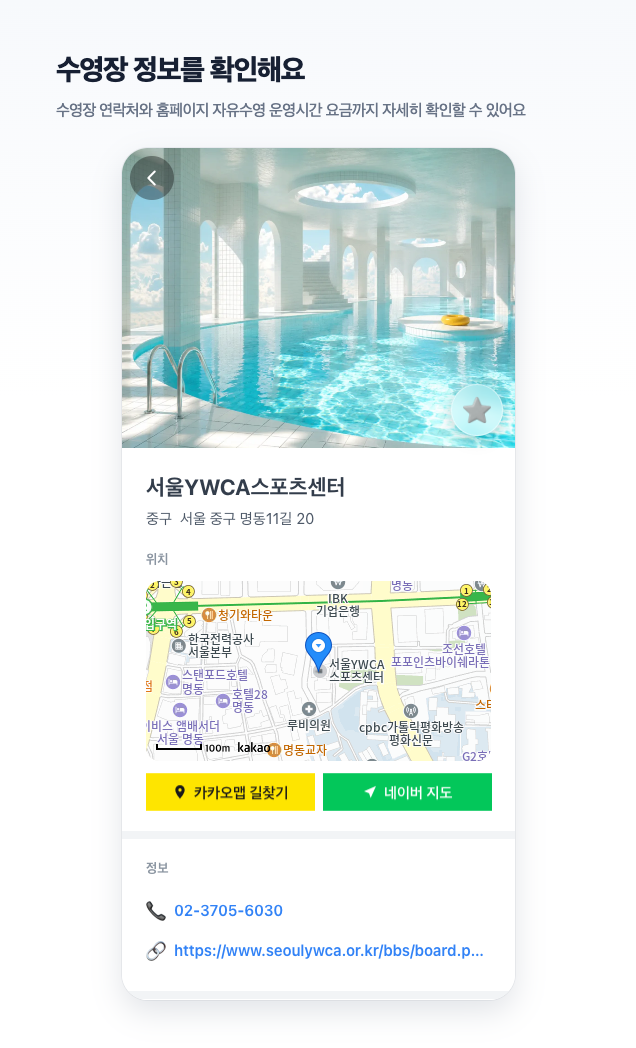
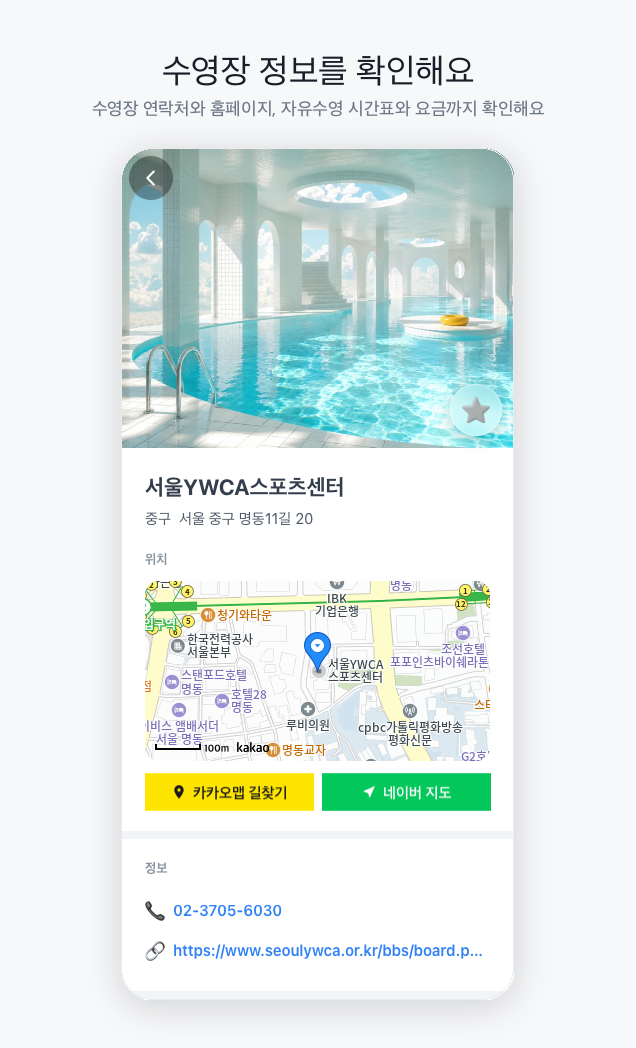
docs: refresh README and preview cards with clean TDS styling

diff --git a/vite.config.ts b/vite.config.ts
@@ -29,5 +29,6 @@ export default defineConfig({
     environment: "jsdom",
     setupFiles: "./src/test/setup.ts",
     clearMocks: true,
+    include: ["src/**/*.{test,spec}.{ts,tsx}"],
   },
 });

diff --git a/README.md b/README.md
@@ -2,7 +2,7 @@
 
 # 🏊 오늘 자유수영 (Openswim)
 
-**오늘 자유수영이 가능한 공공 수영장을 한눈에** — 오늘 어디서 수영할지 지역과 내 위치를 바탕으로 찾는 [AppsInToss](https://apps-in-toss.toss.im/) 미니앱
+**오늘 자유수영이 가능한 공공 수영장을 한눈에** — 지역과 내 위치를 바탕으로 오늘 갈 수 있는 수영장을 찾는 [AppsInToss](https://apps-in-toss.toss.im/) 미니앱
 
 </div>
 
@@ -14,23 +14,22 @@
   <img src="docs/preview/detail.png" width="30%" alt="상세" />
 </p>
 
-> 위 이미지는 브랜드 미리보기예요. 실제 스크린샷을 `docs/preview/{home,nearby,detail}.png` 로 교체하면 자동으로 반영됩니다.
-
 ## 주요 기능
 
-- 📍 **지역·내 위치 기반 검색** — 구 단위 지역 검색(엔터 시 지역 우선 매칭), 위치 권한이 있으면 가까운 순, 없으면 금천구 기본 정렬
-- 🗓 **오늘/토/일 · 공휴일 운영 판별** — 요일별 자유수영 시간표 + 공휴일 처리(운영 / 휴무 / 정보 없음)
-- 🗺 **지도** — 카카오맵에 전체 수영장 마커, 검색하면 해당 지역으로 이동, 카카오맵·네이버 길찾기
-- ⭐ **즐겨찾기**, 상세 실제 요금표 등
+- 📍 **지역·내 위치 기반 탐색** — 구 단위 지역 검색 및 거리순 정렬 (위치 권한 미허용 시 기본 지역 정렬)
+- 🗓 **오늘 / 주말 · 공휴일 운영 판별** — 요일별 자유수영 시간표와 공휴일 테이블(`public.holidays`) 실시간 연동 (운영 / 휴무 / 정보 없음)
+- 🚫 **이용 대상 제한 안내** — 여성 전용, 특정 연령 제한 등 헛걸음 방지를 위한 상세 제한 배지(`access_label`, `access_note`) 표시
+- 🗺 **지도 및 길찾기** — 카카오맵 지도 뷰, 수영장 위치 마커 표시 및 카카오맵·네이버 지도 길찾기 연동
+- ⭐ **즐겨찾기 및 장비 추천** — 자주 가는 수영장 북마크, 추천 수영 장비 목록 제공
 
-## 기술 스택 (현재)
+## 기술 스택
 
-| 구분 | 사용 |
+| 구분 | 스택 |
 |------|------|
-| 프론트 | React 18 · TypeScript · Vite |
-| 플랫폼 | AppsInToss `@apps-in-toss/web-framework` 3.x (AIT) · TDS `@toss/tds-mobile` |
-| 데이터 | Neon Postgres + Neon Data API/Auth(REST, 익명 토큰) 단일 원본. 폴백 없음 |
-| 지도 | Kakao Maps JS SDK |
+| **Frontend** | React 18 · TypeScript · Vite · Vitest |
+| **Platform** | AppsInToss `@apps-in-toss/web-framework` 3.x (AIT) · TDS `@toss/tds-mobile` |
+| **Database** | Neon Postgres + Neon Data API / Auth (REST, 익명 토큰) 단일 원본 |
+| **Maps** | Kakao Maps JS SDK |
 
 ## 시작하기
 
@@ -38,80 +37,82 @@
 # 1) 의존성 설치
 pnpm install
 
-# 2) 환경 변수 — .env 생성 (.env.example 참고)
-#    VITE_KAKAO_JS_KEY / VITE_NEON_DATA_API_URL / VITE_NEON_AUTH_URL
-#    (VITE_* 값은 클라이언트 번들에 포함되므로 공개 가능한 값만 넣는다.
-#     DB 연결 문자열·관리자 API 키는 여기 넣지 않는다.)
+# 2) 환경 변수 설정 (.env.example 참고)
+# VITE_KAKAO_JS_KEY, VITE_NEON_DATA_API_URL, VITE_NEON_AUTH_URL 등
+cp .env.example .env
 
-# 3) 개발 서버
+# 3) 개발 서버 실행 (카카오맵 도메인 등록 일치를 위해 5173 포트 고정)
 pnpm run dev
 
-# 4) 빌드 (AIT 아티팩트 openswim.ait 생성)
+# 4) 테스트 및 린트
+pnpm test
+pnpm run lint
+
+# 5) 빌드 (AIT 아티팩트 openswim.ait 생성)
 pnpm run build
 ```
 
-> 수영장 데이터는 **Neon 서버가 유일한 원본**입니다. 원격 조회가 실패하면 번들 데이터로 대체하지 않고 "정보를 불러오지 못했어요 + 다시 시도" 화면을 보입니다. 예전에는 `src/data/pools.json` 폴백이 있었으나 2026-09-10 에 폐기했습니다 — 폴백은 빌드 시점에 고정되어 반드시 낡는데, 사용자에겐 최신 데이터와 구분이 안 돼서 휴장한 수영장을 "오늘 열림"으로 보여주는 오답을 조용히 냅니다. `.manus/neon-migration/`은 초기 이관용 보조 스크립트입니다.
-
-> 카카오맵은 사용 도메인을 카카오 콘솔 `[플랫폼 > Web]` 에 등록해야 표시됩니다. (`localhost:5173`, 배포 도메인 등)
-> 그래서 `vite.config.ts`에서 dev/preview 서버를 `localhost:5173`으로 고정(`strictPort: true`)해 뒀습니다.
-> 포트를 바꿔 띄우면 지도만 조용히 안 나오므로, 다른 포트로 띄우지 마세요. 5173이 이미 쓰이는 중이면 서버가 시작되지 않고 바로 실패합니다.
+> **단일 원본(Single Source of Truth) 원칙**:
+> 수영장 데이터는 **Neon DB가 유일한 원본**입니다. 로컬 JSON 폴백은 오래된 정보(휴장 시설을 '운영 중'으로 오안내)를 조용히 노출하는 위험이 있어 완전히 제거되었습니다. 조회가 실패할 경우 사용자에게 명확한 재시도 화면을 보여줍니다.
 
 ## 프로젝트 구조
 
 ```
 src/
   screens/     홈 · 내 주변(지도) · 즐겨찾기 · 상세
-  components/  SearchBox · PoolList · PoolMap · FavStar …
+  components/  SearchBox · PoolList · PoolMap · FavStar · RichText …
   lib/         pools(운영·공휴일 상태) · search(지역 검색) · geo · holidays …
-  design/      tokens · primitives (토스풍 디자인 시스템)
-  data/        gear.generated.json 등 정적 보조 데이터 (수영장 데이터는 Neon 에만 있다)
-scripts/       근거 수집·검증 및 라이브 DB 감사·정리
-evidence/      시설별 근거 번들 (원본 HTML·줄번호 텍스트·스크린샷·OCR)
-database/      Neon 스키마 마이그레이션 (database/migrations). Neon 이관 전 Supabase 이력은 database/legacy-supabase 에 보관 (상세: database/README.md)
-docs/          앱인토스·TDS 참고 문서, 데이터 감사 리포트, preview 이미지
+  design/      tokens · primitives (토스 디자인 시스템)
+  data/        gear.generated.json (추천 상품 정적 데이터)
+scripts/       근거 자료 수집·검증, 월간 계획 OCR, 라이브 DB 감사·정리
+evidence/      시설별 공식 근거 번들 (원본 HTML, 줄번호 텍스트, 스크린샷, OCR)
+database/      Neon 스키마 마이그레이션 (database/migrations/)
+docs/          앱인토스 정책, 데이터 정합성 감사 리포트, 미리보기 이미지
 ```
 
-## 데이터 관리
+## 데이터 파이프라인 & 관리
 
-수영장 데이터의 원본은 **Neon 의 `public.pools` 테이블 하나뿐**이다. 수영장 중간 JSON 원본은 없애서,
-조사한 값을 근거와 함께 DB 에 직접 넣는 방식으로 바꿨다.
-
-조사 · 등록 절차는 `.claude/skills/korean-pool-research/SKILL.md` 가 기준이다. 요약하면:
+수영장 데이터 조사는 공식 홈페이지/지자체 시설관리공단 사이트 조사를 원칙으로 합니다. (자세한 규정: `.claude/skills/korean-pool-research/SKILL.md`)
 
 ```bash
 set -a; source .env; set +a
 
-# 1) 근거 수집 — 원본 HTML + 줄번호 텍스트 + manifest(해시·TLS 상태)
+# 1) 공식 근거 수집 (원본 HTML, 텍스트, 해시/TLS 메타데이터)
 pnpm evidence:collect
 
-# 2) 근거 대조 — DB 에 쓰려는 시각이 저장된 근거 어딘가에 실제로 있는지
-pnpm evidence:coverage
-#    본문에 없는 값만 그 요소를 크롭해 스크린샷 + OCR (JS 렌더링·이미지 시간표)
-node scripts/ocr-timetable-images.mjs
+# 2) 근거 대조 및 OCR 추출
+pnpm evidence:coverage                  # 본문 내 시간표 존재 여부 대조
+node scripts/ocr-timetable-images.mjs   # 이미지 시간표 요소 크롭 OCR
 node scripts/ocr-evidence-screenshots.mjs
 
-# 3) 게이트 — provenance·번들 구성·근거 대조를 검사. 위반 시 exit 1
+# 월간 운영 계획 / 대체공휴일 공지 OCR (좌표 및 텍스트 추출, DB 직접 수정 안 함)
+pnpm evidence:monthly-ocr --help
+
+# 3) 검증 게이트 (출처·번들 무결성 검증, 통과 시에만 등록 진행)
 pnpm evidence:verify
 
-# 4) 신규 등록 (INSERT 전용, 중복 방어선 포함)
-node scripts/insert-new-pools.mjs           # dry-run
+# 4) 신규 수영장 등록 (중복 방어선 및 트랜잭션 적용)
+node scripts/insert-new-pools.mjs        # dry-run
 node scripts/insert-new-pools.mjs --write
 
-# 5) 라이브 DB 감사·정리
-node scripts/audit-db-integrity.mjs         # 좌표·주소·요금·연락처 정합성
-node scripts/scan-duplicates-live.mjs       # 중복 후보 스캔
-node scripts/classify-duplicates.mjs        # 병합 / 판단필요 / 오탐 분류
-node scripts/cleanup-db.mjs                 # dry-run 후 --write
+# 5) 라이브 DB 감사 및 정합성 정리
+node scripts/audit-db-integrity.mjs      # 좌표·주소·요금 정합성 감사
+node scripts/scan-duplicates-live.mjs    # 중복 후보 스캔
+node scripts/classify-duplicates.mjs     # 중복 분류 (병합 / 판단 필요 / 오탐)
+node scripts/cleanup-db.mjs              # DB 정리 (dry-run 후 --write)
+
+# 6) 수영 장비 추천 데이터 동기화
+pnpm gear:sync
 ```
 
-확인된 "서로 다른 시설" 조합은 `docs/data/pool-duplicate-whitelist.json` 에 사유와 함께 넣어두면
-중복 스캔이 다시 잡지 않는다. 시설관리공단 대표번호를 공유해서 엮이는 경우가 대부분이다.
-
-`free_swim` 스키마는 `day` 가 `0=일 … 6=토`, `7=공휴일` 이고, 각 요일은 `sessions: [{ start, end }]` 를 갖는다. 세션이 빈 배열이면 “그날 휴무” 를 뜻한다.
+### 데이터 규칙
+- **요일 스키마 (`free_swim`)**: `0=일 … 6=토`, `7=공휴일`. 세션 배열이 비어있으면 해당 요일 휴무.
+- **월간 계획 및 대체공휴일**: 공식 게시판 공지 확인 후 OCR 검토 데이터를 작성하며, 영구 주간 시간표와 날짜별 예외를 분리하여 다룹니다.
+- **이용 제한 표기 (`access_label` / `access_note`)**: 여성 전용, 특정 연령 입장 불가 등 신분/성별에 따른 입장 제한만 배지로 노출합니다.
 
 ## 링크
 
-- [앱인토스 콘솔](https://apps-in-toss.toss.im/), [개발자센터](https://developers-apps-in-toss.toss.im/), [개발자 커뮤니티](https://techchat-apps-in-toss.toss.im/)
+- [Apps in Toss 콘솔](https://apps-in-toss.toss.im/) · [개발자 센터](https://developers-apps-in-toss.toss.im/) · [커뮤니티](https://techchat-apps-in-toss.toss.im/)
 
 ## 만든 사람
 

diff --git a/.claude/skills/korean-pool-research/SKILL.md b/.claude/skills/korean-pool-research/SKILL.md
@@ -1,6 +1,6 @@
 ---
 name: "korean-pool-research"
-description: "Use when researching Korean swimming pools, public free-swim schedules, fees, official facility photos, operating hours, restrictions, holidays, or updating Openswim pool data."
+description: "Use when researching Korean swimming pools, public free-swim schedules, fees, official facility photos, operating hours, restrictions, holidays, monthly operating-plan image OCR, or updating Openswim pool data."
 ---
 
 # Korean pool research
@@ -287,3 +287,43 @@ Plain `fetch` returns menu markup only for many municipal and operator sites; th
 When extracting the times that belong to a 자유수영 heading, read well past the heading line. A window of 8 lines cut off the later day rows of a weekday/weekend table and produced false "mismatch" verdicts against data that was actually correct down to the day. Use at least 5 lines before and 20 after, and compare per day, not as a flat set of time strings.
 
 **A mismatch reported by an automated comparison is a signal to read the source, not permission to overwrite the data.** Overwriting on an unread mismatch turns correct records into wrong ones.
+
+## 11. Monthly operating plans and dated holiday exceptions
+
+Keep two evidence tracks separate: official national holiday dates in `public.holidays`, and each facility's actual free-swim availability. A substitute holiday is a calendar fact, not evidence that every pool closes. During each facility investigation, check its official notice board for the applicable month's `월간계획`, `월간일정`, `운영계획`, `휴관일`, `자유수영 일정`, and `대체공휴일` notices, including revised notices. Do not stop at the permanent weekly timetable.
+
+### Browser discovery and image OCR
+
+1. Confirm facility identity by address/phone. Open the official monthly notice in one browser tab and reuse it. Use `snapshot(page, { interactive: true })`, then a full snapshot when needed. Record the notice URL, publication/revision date, title, and intended year/month. An upload date alone does not establish the plan's applicable month.
+2. Identify the actual plan image/attachment from the snapshot. Preserve the notice's HTML/text in the existing dated evidence bundle, with URL, fetchedAt, status and hash. For JS-only content preserve the rendered notice text too; an HTML stub is not the monthly plan. Do not guess image URLs or treat a missing text timetable as missing data when an image is present.
+3. Prefer downloading the browser-discovered original image with authenticated `fetch(imageUrl)` and saving its bytes. When the original cannot be obtained (canvas, viewer, expiring URL), screenshot only the observed plan element using its current ref. Explicitly record `browser-crop`. Include the full title/year/month, weekday headings, legend, footnotes, and amendments; if these are separate elements capture each separately with source refs. Never OCR a tall full-page website screenshot or shrink a high-resolution original. Inspect the image once and note concrete observations in text.
+4. Run the local OCR companion below on each original/crop. It saves immutable image bytes and SHA-256, line-numbered layout text, the OCR engine's native text (`*.raw.txt`), raw TSV, word bounding boxes/confidence, and a `pending_review` packet under the existing bundle. PSM 6 and 11 are both retained, including closure-only notices without any times. The command's `--month` is only the investigation target; `applicabilityMonth` remains null until reviewed. OCR is extraction, not verification. Use native text alongside layout text because joining TSV words can fragment Korean syllables; retain raw text rather than silently correcting it. Do not publish these notice images as facility photos.
+
+```bash
+node scripts/ocr-monthly-plan.mjs \
+  --bundle evidence/pools/<poolId>/<capture-date> \
+  --image <browser-downloaded-original-or-crop> \
+  --month <YYYY-MM> \
+  --source-page <official-notice-url-already-in-manifest> \
+  --mode original \
+  --image-url <browser-observed-image-url>
+# Use --mode browser-crop for a locator screenshot; --image-url is optional.
+```
+
+The bundle must already have an identified `poolId` and a successful capture of `source-page`. This tool performs no network/DB writes, date inference, or approval. `manifest.monthlyPlans[]` links to `ocr/.../review.json`. Original images go into `assets/`; browser crops into `screenshot/`. All passes retain coordinates in the input image's pixels. Test the tool with `node --test scripts/ocr-monthly-plan.test.mjs`.
+
+### Date-by-date review, not flat text matching
+
+- Verify the named facility, exact year/month and validity period. For calendar grids, use the image and OCR boxes to check the date number, weekday column, event text and color/symbol legend in the **same cell**. OCR line order is not a reliable date-cell relationship. Read the title/legend plus focused date-cell crops; if tiny text fails, enlarge/crop just the affected cell and OCR again, keeping its relation to the full original. Preserve both the original coordinate frame and each crop's bounds.
+- Distinguish facility-wide closure, pool closure, lesson cancellation, member-only access and public free-swim availability. `강습 휴강` does not mean `자유수영 휴무`; `정상 운영` without explicit free-swim applicability does not establish free-swim hours. Preserve registration/audience conditions.
+- Inspect both the actual holiday and its substitute date. Never infer the next weekday's closure, apply a colored cell to its neighbor, treat an unmarked cell as confirmed operating, or copy a one-month exception into permanent `free_swim day=7` data.
+- For each reviewed candidate record `poolId`, exact `date`, applicable month/period, `kind` (`closed`, `sessions`, or `unknown`), verified sessions only, source notice URL, image hash/file, OCR file/line refs, date-cell bounds, faithful quote, applicability scope, reviewer/check time, and `status`. Keep facility/month/legend/cell/free-swim-scope review flags explicit. `review.json.dateExceptions` is a review handoff, not an app or database schema.
+- Missing month/year, unclear cell/legend, contradictory notices or unclear free-swim scope stay `pending` with a concrete reason (`공개 자료 없음` / `전화 확인 필요` as appropriate). Even high OCR confidence never authorizes a DB update. A revised notice must be archived with its applicability and correction evidence before superseding an earlier notice; never overwrite the old evidence.
+
+### Admission and expiry boundary
+
+Audit each dated exception against the full image, national holiday table and weekly schedule; a matching time string somewhere in OCR is insufficient. The existing `verify-evidence-coverage.mjs` checks time presence only and **does not validate calendar dates, cells, scope or monthly exceptions**. Monthly review must be completed separately before seeking production-write approval.
+
+The intended application priority is a **verified facility-specific date exception → applicable regular closure/holiday rules → weekly schedule**, with unknown holiday availability remaining unknown, not falling back to guessed weekday hours. Apply a plan only within its confirmed validity period; absent next-month evidence remains unknown for monthly exceptions. Explicit special openings may override a regular closure only when the official notice says so.
+
+The current app reads weekly `free_swim` and national `holidays`; it has no admitted date-exception storage/reader yet. Until that path is implemented and verified, keep reviewed monthly exceptions in the evidence handoff and report them as **not reflected in the app**. Do not claim collection/OCR is app activation, and do not change a weekly schedule to simulate a one-day exception.
